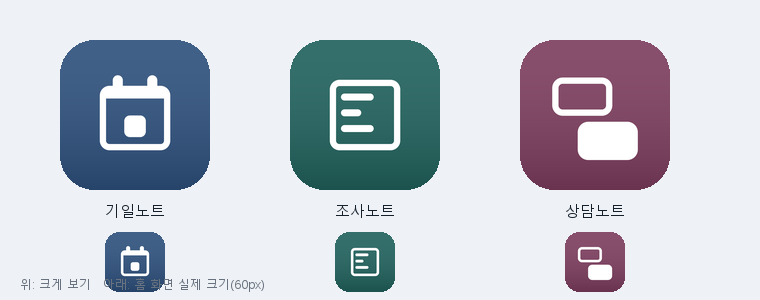
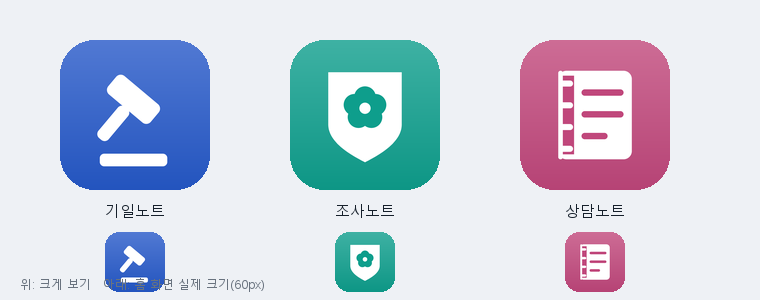
아이콘 — 색을 올리고 한눈에 읽히는 모양으로
칙칙하게 보이던 원인은 아래로 갈수록 검정을 섞은 그늘이었다.
바탕을 같은 계열의 맑은 색으로 올리고 그늘은 위가 밝은 쪽으로 뒤집었다.
모양: 기일=판사봉과 받침, 조사=방패와 무궁화, 상담=링노트.
경찰 공식 문양은 공공 표장이라 베끼지 않고 방패+무궁화로 대신했다.

diff --git a/docs/sw.js b/docs/sw.js
@@ -1,5 +1,5 @@
 /* 노트앱 서비스워커 — 앱 껍데기를 통째로 캐시한다. 판이 바뀌면 V 가 바뀌어 옛 캐시는 지운다 */
-const V="notedesk-df2677d936";
+const V="notedesk-6a046ca4e0";
 const SHELL=["./", "./index.html", "./vendor/jszip.min.js", "./sangdam/icon-180.png", "./sangdam/icon-192.png", "./gijil/", "./gijil/index.html", "./gijil/manifest.webmanifest", "./gijil/icon-180.png", "./gijil/icon-192.png", "./gijil/icon-512.png", "./josa/", "./josa/index.html", "./josa/manifest.webmanifest", "./josa/icon-180.png", "./josa/icon-192.png", "./josa/icon-512.png", "./sangdam/", "./sangdam/index.html", "./sangdam/manifest.webmanifest", "./sangdam/icon-512.png"];
 self.addEventListener("install",e=>{
   e.waitUntil(caches.open(V).then(c=>c.addAll(SHELL.map(u=>new Request(u,{cache:"reload"})))).then(()=>self.skipWaiting()));

diff --git a/빌드.py b/빌드.py
@@ -35,10 +35,11 @@ sys.stdout.reconfigure(encoding="utf-8")
 ROOT = Path(__file__).resolve().parent
 SRC, DOCS, VENDOR = ROOT / "src", ROOT / "docs", ROOT / "vendor"
 
+# color = 앱 머리글 색(화면), icon = 홈 화면 아이콘 바탕(더 맑게 올린 같은 계열)
 APPS = [
-    dict(dir="gijil",   src="gijil-note.html",   name="기일노트", ch="기", color="#2C4E7A", desc="법정 — 제출 기록 · 기일 노트 · 쟁점 · 숙제"),
-    dict(dir="josa",    src="josa-note.html",    name="조사노트", ch="조", color="#1F5F5B", desc="조사실 — 브리핑 · 예상문답 · 기록 · 열람"),
-    dict(dir="sangdam", src="sangdam-note.html", name="상담노트", ch="상", color="#7A3B5C", desc="상담실 — 검토보고서 · 자료 · 질문 · 녹음"),
+    dict(dir="gijil",   src="gijil-note.html",   name="기일노트", ch="기", color="#2C4E7A", icon="#2558C8", desc="법정 — 제출 기록 · 기일 노트 · 쟁점 · 숙제"),
+    dict(dir="josa",    src="josa-note.html",    name="조사노트", ch="조", color="#1F5F5B", icon="#0E9E8C", desc="조사실 — 브리핑 · 예상문답 · 기록 · 열람"),
+    dict(dir="sangdam", src="sangdam-note.html", name="상담노트", ch="상", color="#7A3B5C", icon="#C0477B", desc="상담실 — 검토보고서 · 자료 · 질문 · 녹음"),
 ]
 
 # claude.ai 아티팩트가 씌우던 껍데기와 같은 초기화 — 화면이 아티팩트 판과 똑같이 나온다
@@ -144,16 +145,18 @@ def make_icons(out, a):
     """글자 없는 선 아이콘 — 홈 화면에는 앱 이름이 이미 아래에 뜨므로 아이콘이 이름을 또 말할 필요가 없다.
        4배로 그린 뒤 줄여 획을 매끄럽게 한다."""
     from PIL import Image, ImageDraw
+    base = a.get("icon", a["color"])
     for size in (180, 192, 512):
         S = size * 4
-        im = Image.new("RGB", (S, S), a["color"])
+        im = Image.new("RGB", (S, S), base)
         d = ImageDraw.Draw(im)
-        # 위에서 아래로 아주 옅은 그늘 — 평면보다 깊어 보인다
-        top, bot = _mix(a["color"], "#FFFFFF", .10), _mix(a["color"], "#000000", .14)
+        # 위가 밝고 아래로 가며 본색 — 어둡게 깔면 칙칙해 보인다
+        top, bot = _mix(base, "#FFFFFF", .20), _mix(base, "#000000", .05)
         for y in range(S):
-            t = y / S
-            d.line([(0, y), (S, y)], fill=_lerp(top, bot, t * t))
-        MARK[a["dir"]](d, S, "#FFFFFF")
+            d.line([(0, y), (S, y)], fill=_lerp(top, bot, y / S))
+        layer = Image.new("RGBA", (S, S), (0, 0, 0, 0))
+        MARK[a["dir"]](ImageDraw.Draw(layer), S, (255, 255, 255, 255), base)
+        im = Image.alpha_composite(im.convert("RGBA"), layer).convert("RGB")
         im = im.resize((size, size), Image.LANCZOS)
         buf = io.BytesIO(); im.save(buf, format="PNG", optimize=True)
         write(out / f"icon-{size}.png", buf.getvalue())
@@ -163,39 +166,62 @@ def _rr(d, box, r, w, col):
     d.rounded_rectangle(box, radius=r, outline=col, width=w)
 
 
-def _mark_gijil(d, S, col):
-    """기일 = 날짜. 달력 — 위 고리 둘, 머리띠, 그날 한 칸."""
-    w = int(S * .042); r = int(S * .065)
-    x0, x1 = S * .265, S * .735
-    y0, y1 = S * .305, S * .735
-    _rr(d, [x0, y0, x1, y1], r, w, col)
-    d.rectangle([x0 + w, y0 + w, x1 - w, y0 + S * .085], fill=col)          # 머리띠
-    for cx in (S * .385, S * .615):                                          # 고리
-        d.rounded_rectangle([cx - w * .8, S * .235, cx + w * .8, y0 + w * 1.2],
-                            radius=w, fill=col)
-    s = S * .072                                                             # 그날
-    cx, cy = S * .5, S * .575
-    d.rounded_rectangle([cx - s, cy - s, cx + s, cy + s], radius=int(w * .9), fill=col)
+def _mark_gijil(d, S, col, bg):
+    """기일 = 법정. 판사봉과 받침 — 기울어진 봉이 한눈에 법정을 말한다."""
+    from PIL import Image, ImageDraw
+    L = Image.new("RGBA", (S, S), (0, 0, 0, 0))
+    g = ImageDraw.Draw(L)
+    cx, cy = S * .49, S * .395
+    hw, hh = S * .185, S * .080          # 봉 머리
+    g.rounded_rectangle([cx - hw, cy - hh, cx + hw, cy + hh], radius=int(hh * .5), fill=col)
+    sw = S * .044                        # 자루 — 머리의 절반 남짓, 길게 빼야 봉으로 읽힌다
+    g.rounded_rectangle([cx - sw, cy + hh - S * .006, cx + sw, cy + S * .345],
+                        radius=int(sw * .8), fill=col)
+    L = L.rotate(-40, resample=Image.BICUBIC, center=(cx, cy))
+    d._image.alpha_composite(L)
+    bw, bh = S * .225, S * .042          # 받침
+    by = S * .800
+    d.rounded_rectangle([cx - bw, by - bh, cx + bw, by + bh], radius=int(bh * .7), fill=col)
 
 
-def _mark_josa(d, S, col):
-    """조사 = 조서. 묻고 답한 줄 — 긴 줄 둘과 짧은 줄 하나."""
-    w = int(S * .042); r = int(S * .065)
-    x0, x1 = S * .265, S * .735
-    y0, y1 = S * .265, S * .735
-    _rr(d, [x0, y0, x1, y1], r, w, col)
-    for i, frac in enumerate((.68, .42, .68)):
-        y = y0 + S * (.115 + i * .105)
-        xs = x0 + S * .075
-        d.rounded_rectangle([xs, y - w * .55, xs + (x1 - x0 - S * .15) * frac, y + w * .55],
-                            radius=w, fill=col)
+def _mark_josa(d, S, col, bg):
+    """조사 = 수사기관. 방패 안에 무궁화 — 경찰 공식 문양은 그대로 쓰지 않는다."""
+    import math
+    x0, x1 = S * .255, S * .745
+    y0, ym, y1 = S * .215, S * .560, S * .815
+    pts = [(x0, y0), (x1, y0)]
+    for i in range(41):                  # 오른쪽 어깨에서 아래 꼭짓점까지
+        t = i / 40
+        pts.append((x1 - (x1 - S * .5) * (t ** 2.1), ym + (y1 - ym) * t))
+    for i in range(41):
+        t = 1 - i / 40
+        pts.append((x0 + (S * .5 - x0) * (t ** 2.1), ym + (y1 - ym) * t))
+    d.polygon(pts, fill=col)
+    cx, cy, pr = S * .5, S * .455, S * .072      # 무궁화 다섯 잎
+    for k in range(5):
+        th = -math.pi / 2 + k * 2 * math.pi / 5
+        px, py = cx + math.cos(th) * pr * 1.02, cy + math.sin(th) * pr * 1.02
+        d.ellipse([px - pr, py - pr, px + pr, py + pr], fill=bg)
+    d.ellipse([cx - pr * .52, cy - pr * .52, cx + pr * .52, cy + pr * .52], fill=col)
 
 
-def _mark_sangdam(d, S, col):
-    """상담 = 주고받는 말. 말풍선 둘을 어긋나게 둔다 — 겹치지 않아 작게 줄여도 둘로 보인다."""
-    w = int(S * .042); r = int(S * .07)
-    _rr(d, [S * .215, S * .250, S * .615, S * .505], r, w, col)              # 묻는 쪽
-    d.rounded_rectangle([S * .385, S * .545, S * .785, S * .800], radius=r, fill=col)  # 답하는 쪽
+def _mark_sangdam(d, S, col, bg):
+    """상담 = 노트. 왼쪽에 링, 안에 적은 줄."""
+    x0, x1 = S * .255, S * .745
+    y0, y1 = S * .205, S * .795
+    r = int(S * .055)
+    d.rounded_rectangle([x0, y0, x1, y1], radius=r, fill=col)
+    d.rectangle([x0, y0 + r * .6, x0 + S * .105, y1 - r * .6], fill=bg)   # 링 자리
+    d.rounded_rectangle([x0, y0, x0 + S * .030, y1], radius=int(S * .015), fill=col)
+    for i in range(4):                                                     # 링 넷
+        cy = y0 + S * .085 + i * S * .145
+        d.rounded_rectangle([x0 + S * .012, cy - S * .020, x0 + S * .098, cy + S * .020],
+                            radius=int(S * .020), fill=col)
+    for i, frac in enumerate((1.0, 1.0, .62)):                             # 적은 줄
+        y = y0 + S * .145 + i * S * .145
+        xs = x0 + S * .155
+        d.rounded_rectangle([xs, y - S * .021, xs + (x1 - xs - S * .055) * frac, y + S * .021],
+                            radius=int(S * .021), fill=bg)
 
 
 MARK = {"gijil": _mark_gijil, "josa": _mark_josa, "sangdam": _mark_sangdam}
